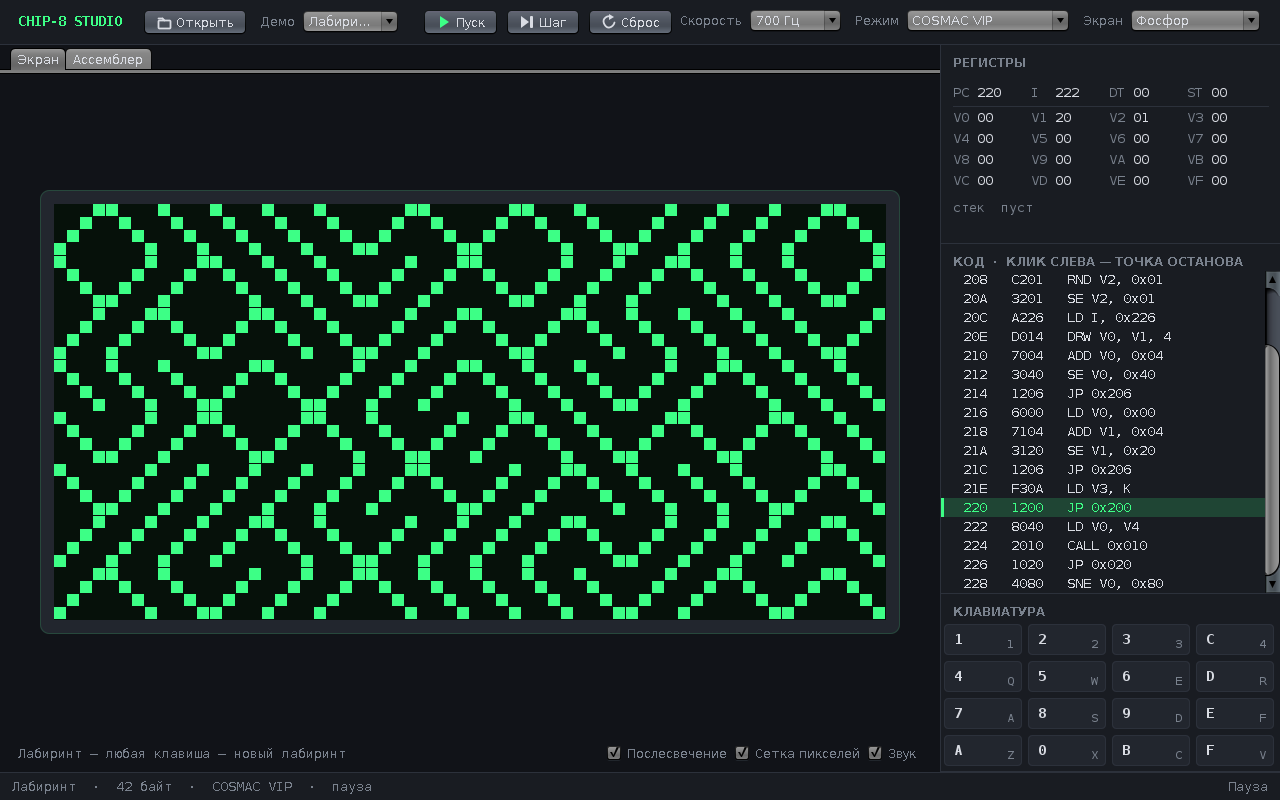
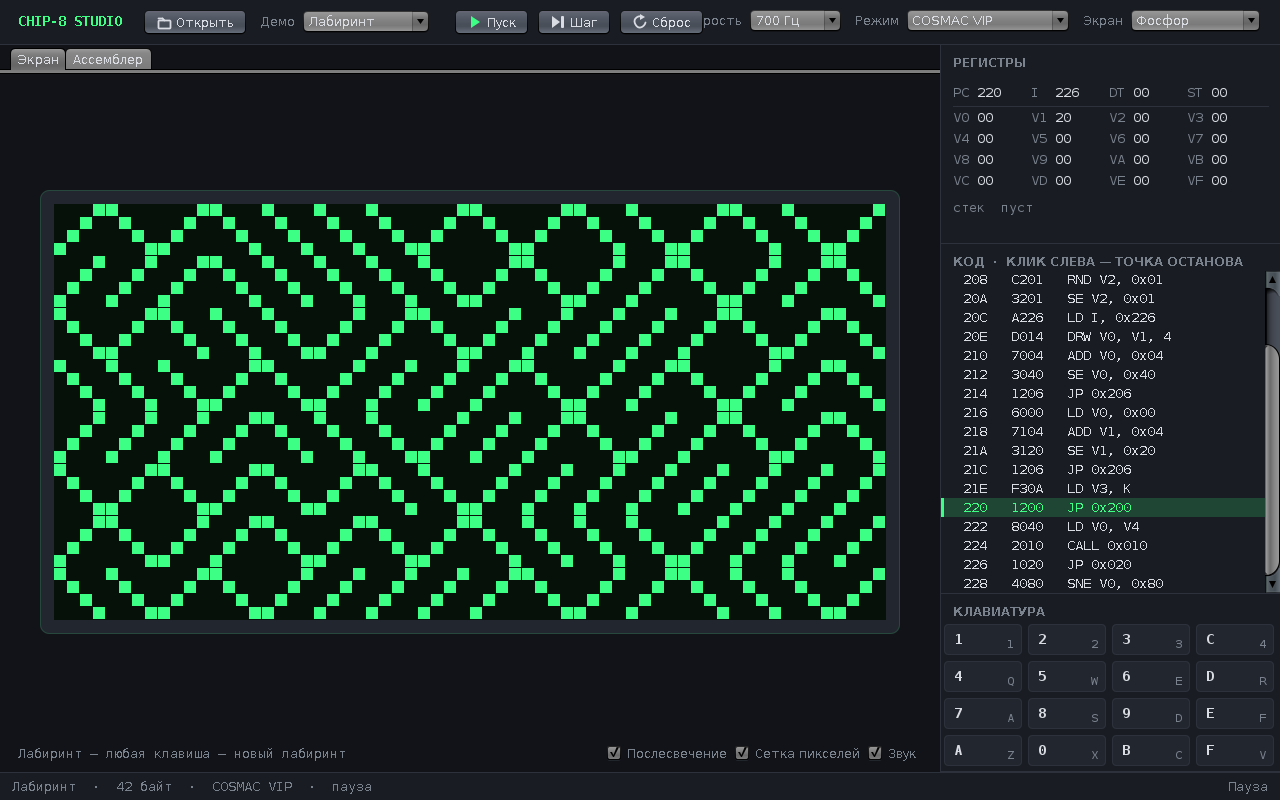
Move palette picker under the screen so the toolbar fits

diff --git a/src/main/java/ru/whysafe/chip8/ui/Studio.java b/src/main/java/ru/whysafe/chip8/ui/Studio.java
@@ -63,6 +63,7 @@ public final class Studio extends JFrame implements EditorPanel.Host {
     private final JButton runButton = new JButton("Пауза", Icons.pause());
     private final JComboBox<Demos.Demo> demoBox = new JComboBox<>(Demos.all().toArray(new Demos.Demo[0]));
     private final JLabel hint = new JLabel(" ");
+    private final JLabel brand = new JLabel("CHIP-8 STUDIO");
     private final JLabel statusLeft = new JLabel(" ");
     private final JLabel statusRight = new JLabel(" ");
     private boolean updatingDemoBox;
@@ -94,7 +95,7 @@ public final class Studio extends JFrame implements EditorPanel.Host {
         controller.onFrame(this::onFrame);
         controller.onProgramLoaded(listing::reload);
 
-        setMinimumSize(new Dimension(980, 640));
+        setMinimumSize(new Dimension(1100, 680));
         setSize(1280, 800);
         setLocationRelativeTo(null);
     }
@@ -109,7 +110,6 @@ public final class Studio extends JFrame implements EditorPanel.Host {
             BorderFactory.createEmptyBorder(8, 12, 8, 12)));
 
         JPanel left = row();
-        JLabel brand = new JLabel("CHIP-8 STUDIO");
         brand.setFont(Theme.MONO_LARGE.deriveFont(java.awt.Font.BOLD));
         brand.setForeground(palette.accent);
         brand.setBorder(BorderFactory.createEmptyBorder(0, 0, 0, 14));
@@ -161,15 +161,10 @@ public final class Studio extends JFrame implements EditorPanel.Host {
         quirks.setToolTipText("Набор особенностей интерпретатора. Если игра ведёт себя странно — переключите.");
         quirks.addActionListener(e -> controller.setQuirks((Quirks) quirks.getSelectedItem()));
 
-        JComboBox<Theme.Palette> palettes = new JComboBox<>(Theme.PALETTES.toArray(new Theme.Palette[0]));
-        palettes.addActionListener(e -> applyPalette((Theme.Palette) palettes.getSelectedItem(), brand));
-
         right.add(label("Скорость"));
         right.add(speed);
         right.add(label("Режим"));
         right.add(quirks);
-        right.add(label("Экран"));
-        right.add(palettes);
         bar.add(right, BorderLayout.EAST);
         return bar;
     }
@@ -188,6 +183,12 @@ public final class Studio extends JFrame implements EditorPanel.Host {
         under.add(hint, BorderLayout.WEST);
 
         JPanel toggles = row();
+        JComboBox<Theme.Palette> palettes = new JComboBox<>(Theme.PALETTES.toArray(new Theme.Palette[0]));
+        palettes.setToolTipText("Цвета экрана");
+        palettes.addActionListener(e -> applyPalette((Theme.Palette) palettes.getSelectedItem()));
+        toggles.add(label("Палитра"));
+        toggles.add(palettes);
+        toggles.add(Box.createHorizontalStrut(6));
         JCheckBox glow = checkbox("Послесвечение", true, on -> screen.setPersistence(on));
         glow.setToolTipText("Плавное затухание пикселей убирает мерцание, типичное для CHIP-8");
         toggles.add(glow);
@@ -389,7 +390,7 @@ public final class Studio extends JFrame implements EditorPanel.Host {
         updatingDemoBox = false;
     }
 
-    private void applyPalette(Theme.Palette next, JLabel brand) {
+    private void applyPalette(Theme.Palette next) {
         palette = next;
         screen.setPalette(next);
         registers.setAccent(next.accent);
